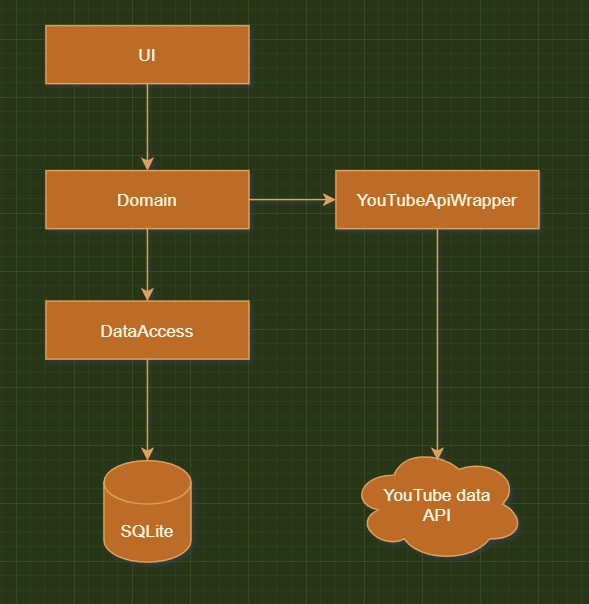
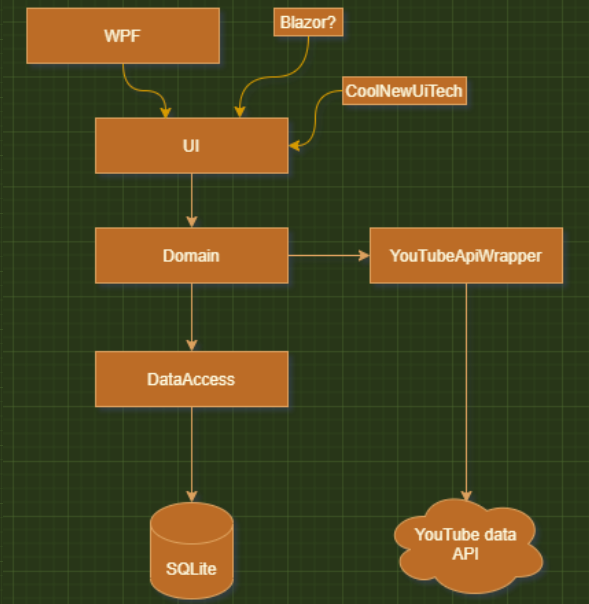
Update ARCHITECTURE.md to reflect current/future state

diff --git a/ARCHITECTURE.md b/ARCHITECTURE.md
@@ -1,6 +1,6 @@
 # Architecture of YouTube playlist manager
 
-# Overview
+## Overview
 
 YouTube playlist manager is a tool written to locally store and manage your personal YouTube playlists.
 
@@ -12,17 +12,41 @@ playlist (rather than waiting every 100 videos for the 'next page' on YouTube)
 
 [Online Version](https://drive.google.com/file/d/1Y8-YgVYh6b51JDk2_0UtjnZOPK1W6jbq/view?usp=sharing)
 
-## Development guidelines
+The domain project should have no project references, and as few nuget packages as possible.
 
-The domain project has as little dependencies as possible.
+Where possible, most of the logic should be in the domain project - so it can be shared across multiple UIs. Interfaces for classes we interact with from the other projects should live in the domain project - as long as it doesn't require pulling in more dependencies.
 
-Everything in the domain project should be using its own Entities, not Entities from other places - the most obvious example of this is the YouTube Data Api Video object vs our own VideoData object.
+Initially, when implementing view logic in the UI (eg, creating a new WPF app), the code will go in the UI project.
 
-Where possible, most of the logic should be in the domain project - so it can be shared across multiple UIs. Interfaces for classes we interact with from the other projects should live in the domain project - as long as it doesn't pull in more dependencies.
+Over time however, the ViewModel type logic should move from the specific UI project (eg, WPF) -> UI project -> Domain project so that code is as shared as possible, and what's left in the UI projects are UI-specific code only.
 
-Initially, when implementing view logic in the UI, the code will go in the UI project.
+The line is drawn at pulling INotifyPropertyChanged and Fody into the Domain project - keep that stuff in the UI project. This means we have some duplicate entities that only exist for the UI project, but that's fine.
 
-Over time however, the ViewModel type logic should move from UI project -> Domain project so that code is as shared as possible, and what's left in the UI projects are UI-specific code only.
+`Note: Fody.PropertyChanged has to be in both the UI and WPF projects, otherwise it doesn't inject the property changed methods. This might be a problem / entirely not needed in the future if other UI projects get made`
+
+### Specific decisions
+
+#### Encryption (in progress)
+
+Encryption is done in the app using DPAPI. It's used to encrypt your API key and client.json at rest, so that it's harder to steal.
+
+When the app launches, everything works without a problem until you want to use the YouTube api. Then it'll prompt you to enter your decryption key / password.
+
+Once that's entered, we can decrypt the encrypted data saved in `WpfSettings.json` in the app's folder.
+
+If you don't have an API key / client.json set, then it will prompt you to enter them.
+
+Future work to be done in this area: move from DPAPI to something like DES/AES (insert secure** mechanism here) so it can be cross-platform.
+
+#### EF core
+
+There's not a real repository layer at the moment for the database - everything's re-getting data from the database.
+
+Due to how EF works, you can't have more than one thread updating the data at once, so `[ThreadStatic]` is used to ensure each thread gets its own `DbContext` when requesting one.
+
+Due to this, you *should* only request a `DbContext` once per method / group of work.
+
+Future work in this area: research to see how others handle this.
 
 ## Building
 
@@ -36,7 +60,6 @@ Run the app
 
 - Setting up the application in google's development console
 - Getting an API key + downloading client.json
-- Pointing the UI to the API key and client.json
 
 ## Future architecture
 
